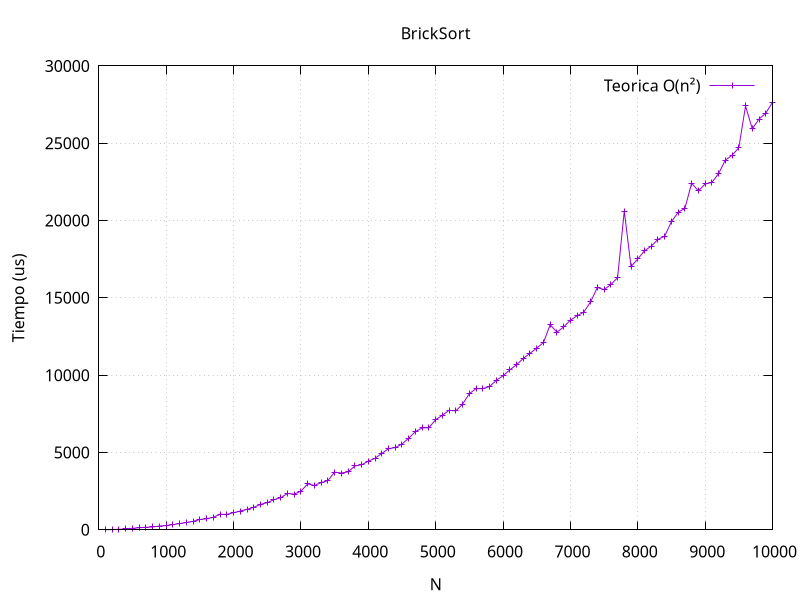
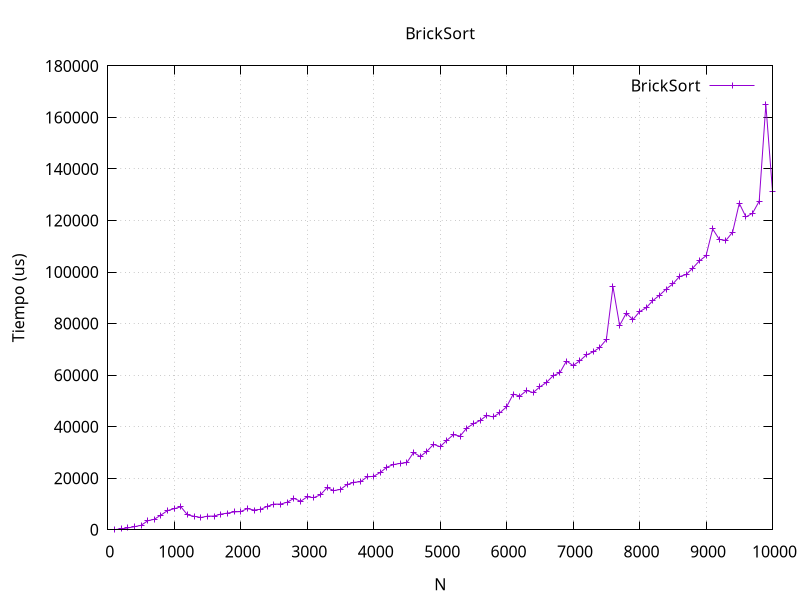
arreglado bricksort

diff --git a/trazaBrick.cpp b/trazaBrick.cpp
@@ -5,11 +5,11 @@ using namespace std;
 
 void mostrar(vector<int> &T, int rojo, int cyan) {
   for (int i = 0; i < T.size(); i++) {
-    if (T[i] == rojo) {
+    if (i == rojo) {
       cout << "\033[31m";
       cout << T[i];
       cout << "\033[0m";
-    } else if (T[i] == cyan) {
+    } else if (i == cyan) {
       cout << "\033[36m";
       cout << T[i];
       cout << "\033[0m";
@@ -20,25 +20,35 @@ void mostrar(vector<int> &T, int rojo, int cyan) {
 }
 
 void bricksort(vector<int> &T) {
+
   int n = T.size();
-  for (int i = n - 1; i > 0; i--) {
-    cout << endl;
-    cout << "  i=" << i << endl;
-    for (int j = 0; j < i; j++) {
-      mostrar(T, T[j], T[j - 1]);
-      cout << " j=" << j + 1 << endl;
-      if (T[j] < T[j - 1]) {
-        int aux = T[j];
-        T[j] = T[j - 1];
-        T[j - 1] = aux;
+
+  for (int i = 0; i < n - 1; i++) {
+    cout << abs(i - 5) << endl;
+    int min = i;
+
+    for (int j = i + 1; j < n; j++) {
+      if (T[j] < T[min]) {
+        min = j;
       }
     }
-    mostrar(T, 0, 0);
-    cout << endl;
+
+    while (min > i) {
+      mostrar(T, min, min - 1);
+      cout << endl;
+
+      swap(T[min], T[min - 1]);
+      min--;
+    }
+    mostrar(T, -1, -1);
+    cout << endl << endl;
   }
 }
 
 int main() {
   vector<int> T = {5, 4, 3, 2, 1};
+  mostrar(T, -1, -1);
+  cout << endl << endl;
   bricksort(T);
+  mostrar(T, -1, -1);
 }

diff --git a/brickSort.cpp b/brickSort.cpp
@@ -6,16 +6,24 @@
 using namespace std;
 
 void bricksort(vector<int> &T) {
+
   int n = T.size();
-  for (int i = n - 1; i > 0; i--) {
 
-    for (int j = 0; j < i; j++) {
+  for (int i = 0; i < n - 1; i++) {
 
-      if (T[j] < T[j - 1]) {
-        int aux = T[j];
-        T[j] = T[j - 1];
-        T[j - 1] = aux;
+    int min = i;
+
+    for (int j = i + 1; j < n; j++) {
+
+      if (T[j] < T[min]) {
+        min = j;
       }
+    }
+
+    while (min > i) {
+
+      swap(T[min], T[min - 1]);
+      min--;
     }
   }
 }